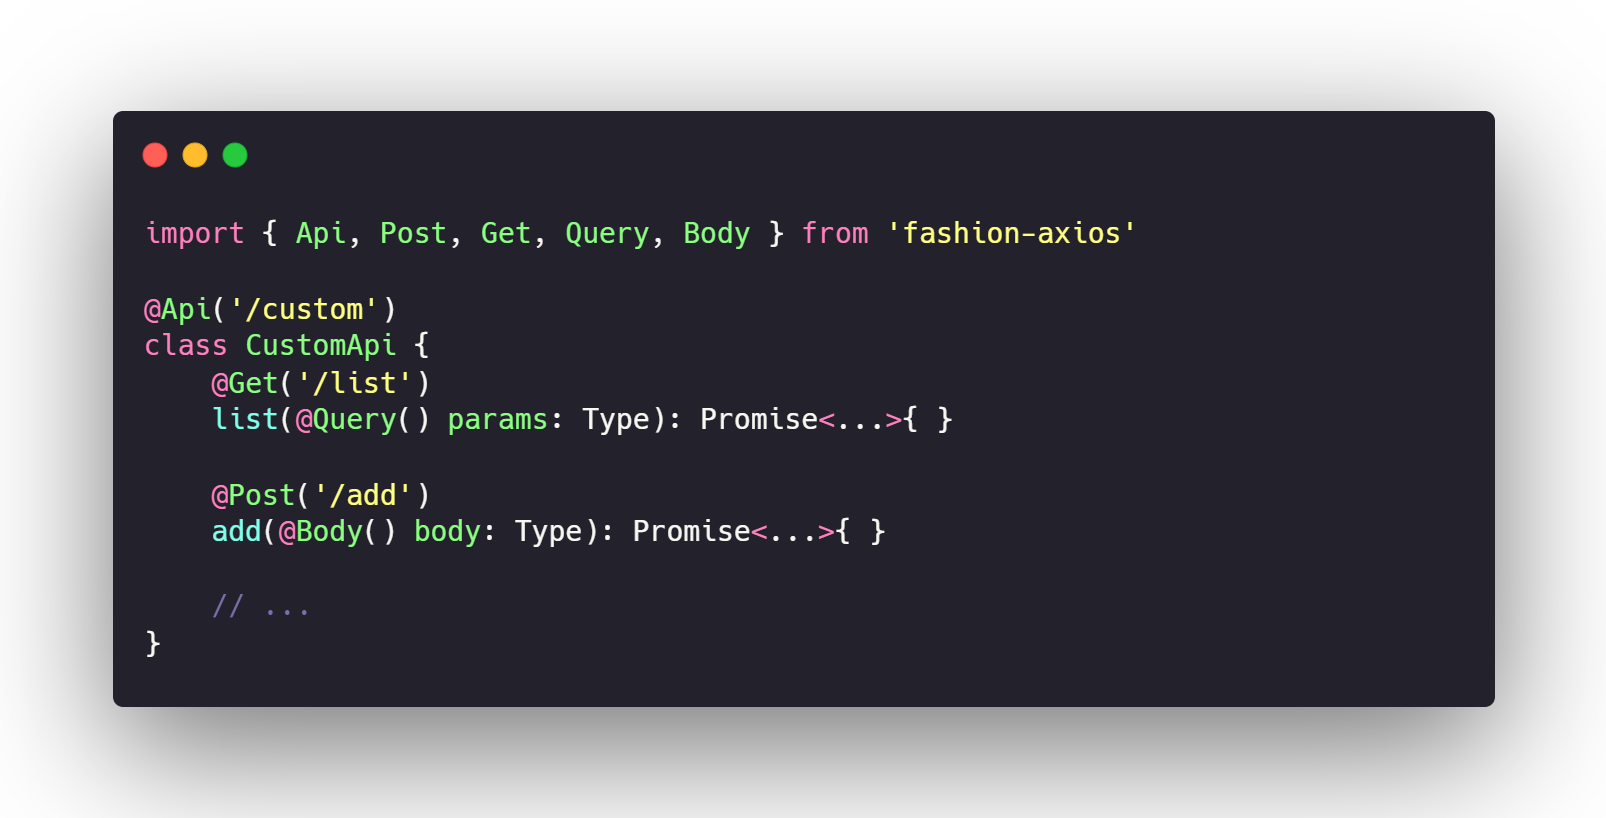
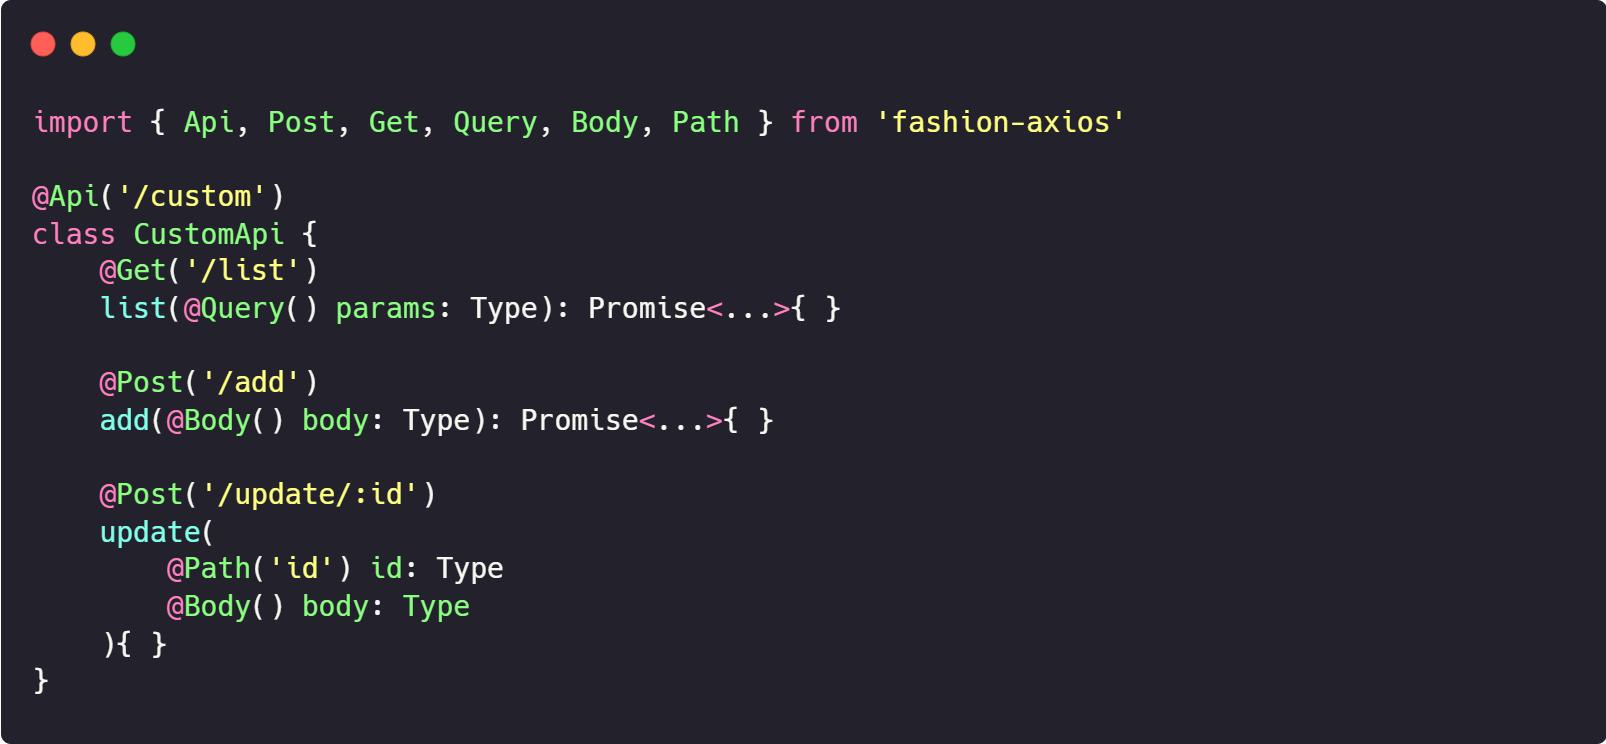
docs: update readme

diff --git a/README.md b/README.md
@@ -13,8 +13,70 @@ Another way to manage APIs in a project, maybe expand to other more interesting 
 
 ## Install
 
+```bash
+
+pnpm install fashion-axios -s
+```
+
 ## Class Decorator
+
+### @Api
+
+```typescript
+import { Api } from 'fashion-axios'
+
+@Api('/user')
+class UserApi {
+
+}
+```
+### @Client
+
+```typescript
+import { Api } from 'fashion-axios'
+
+@Client('name')
+@Api('/user')
+class UserApi {
+
+}
+```
 
 ## Request Decorator
 
+```typescript
+import { Api, Get, Post } from 'fashion-axios'
+
+@Api('/user')
+class UserApi {
+    @Post('/add')
+    add(): Type { }
+
+    @Get('/list')
+    list(): Type { }
+
+    // ...more
+    // @Put @Delete
+}
+```
+
 ## Param Decorator
+
+```typescript
+import { Api, Get, Post, Body, Query } from 'fashion-axios'
+
+@Api('/user')
+class UserApi {
+    @Post('/add')
+    add(@Body() body: Type): Type { }
+
+    @Post('/update/:id')
+    update(
+        @Path('id') id: Type
+        @Body() body: Type
+    ): Type { }
+
+    @Get('/list')
+    list(@Query() params: Type): Type { }
+}
+```
